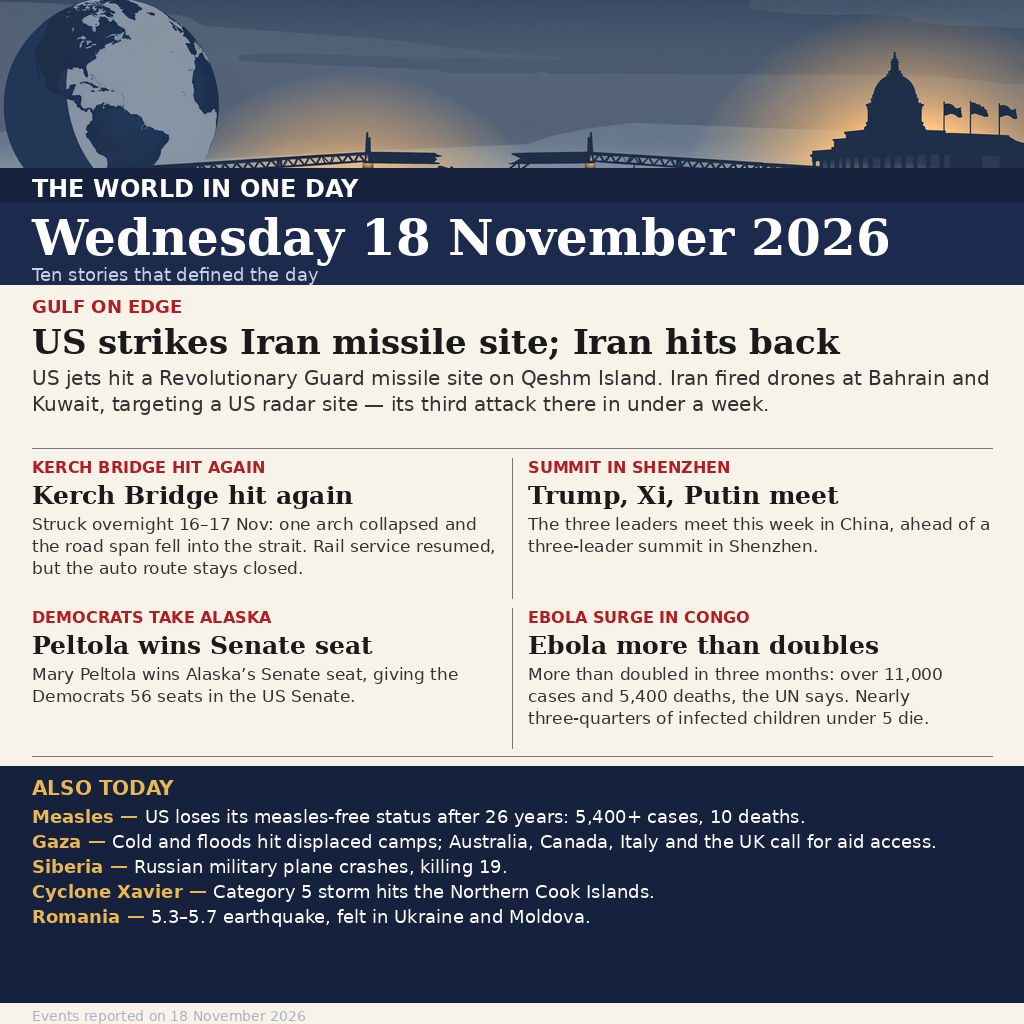
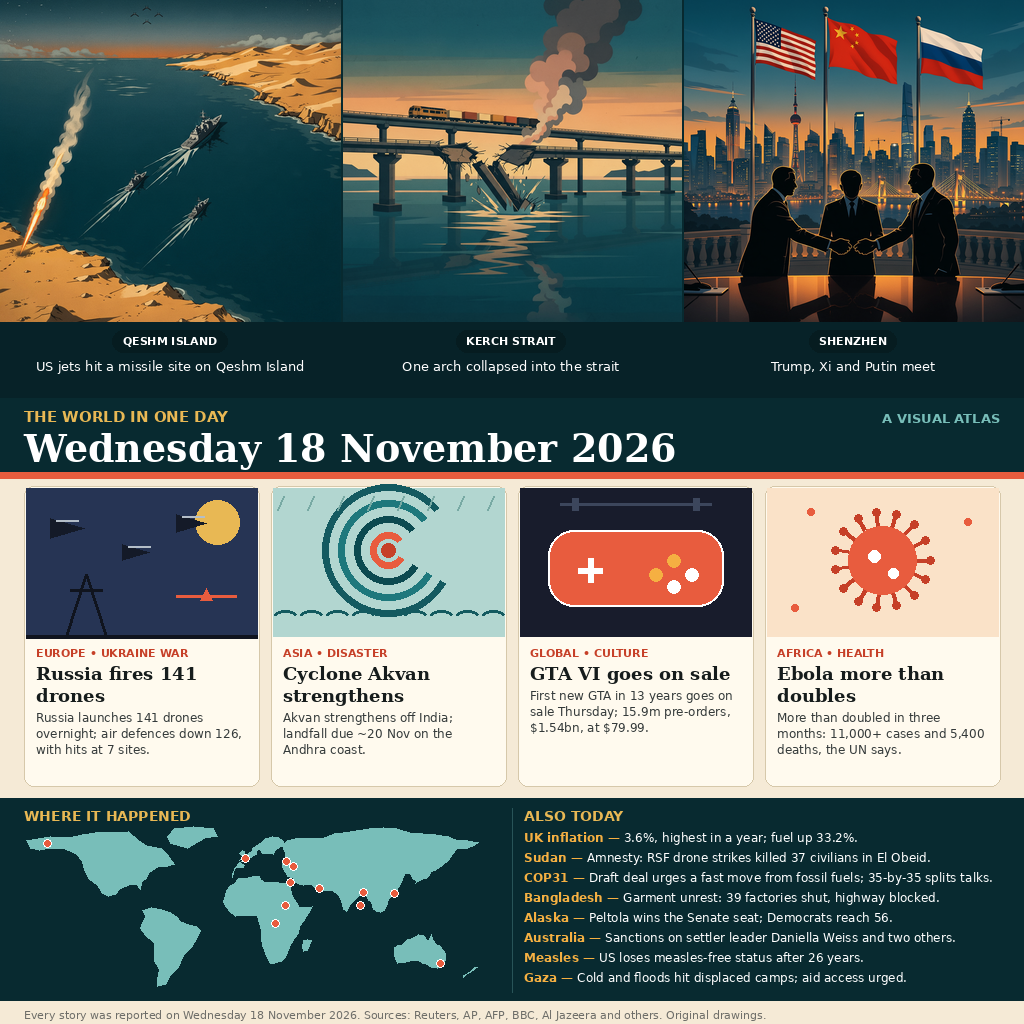
news-image v4: Canva hero panels, visual atlas layout

diff --git a/README.md b/README.md
@@ -8,17 +8,22 @@ Sum up 18 November's world news in one image. Entry for make.fun bounty [news-im
 
 ## The image
 
-A newspaper front page for **Wednesday 18 November 2026**, composed from a text-free illustration (globe, broken bridge, capitol) with all headlines typeset in crisp system fonts, so no text is garbled.
+A visual atlas of **Wednesday 18 November 2026** in deep teal and warm sand — a big illustrated hero panorama of the day's hotspots, four large visual story cards, a "Where it happened" world map, and eight one-line briefs. All headlines typeset in crisp system fonts over PIL-drawn flat illustrations, so no text is garbled.
 
-Stories (all reported on 18 November 2026):
+Hero panorama (all reported on 18 November 2026):
 
-1. **Gulf on edge** — US jets hit a Revolutionary Guard missile site on Qeshm Island; Iran fired drones at Bahrain and Kuwait, targeting a US radar site — its third attack there in under a week.
-2. **Kerch Bridge hit again** — struck overnight 16–17 Nov: one arch collapsed and the road span fell into the strait. Rail service resumed, but the auto route stays closed.
-3. **Summit in Shenzhen** — Trump, Xi Jinping and Putin meet this week in China, ahead of a three-leader summit in Shenzhen.
-4. **Democrats take Alaska** — Mary Peltola wins the Senate seat, giving the Democrats 56 seats in the US Senate.
-5. **Ebola surge in Congo** — the outbreak has more than doubled in three months: over 11,000 cases and 5,400 deaths, the UN says. Nearly three-quarters of infected children under 5 die.
+1. **Qeshm Island** — US jets hit a Revolutionary Guard missile site on Qeshm Island; Iran fired drones at Bahrain and Kuwait, targeting a US radar site.
+2. **Kerch Strait** — the Kerch Bridge struck overnight 16–17 Nov: one arch collapsed and the road span fell into the strait. Rail service resumed, but the auto route stays closed.
+3. **Shenzhen** — Trump, Xi Jinping and Putin gather in Shenzhen this week for a first three-way summit.
 
-Also today: US loses its measles-free status after 26 years (5,400+ cases, 10 deaths); cold and floods hit Gaza's displaced camps, and Australia, Canada, Italy and the UK call for aid access; a Russian military plane crashed in Siberia, 19 dead; Category 5 Cyclone Xavier hit the Northern Cook Islands; a 5.3–5.7 earthquake in Romania, felt in Ukraine and Moldova.
+Story cards:
+
+4. **Russia fires 141 drones** — overnight, air defences down 126, hits at 7 sites.
+5. **Cyclone Akvan strengthens** — severe storm in the Bay of Bengal, landfall due ~20 Nov on the Andhra coast.
+6. **GTA VI goes on sale** — first new GTA in 13 years, on sale Thursday; 15.9m pre-orders, $1.54bn, at $79.99.
+7. **Ebola more than doubles** — more than doubled in three months: 11,000+ cases and 5,400 deaths, the UN says.
+
+Also today: UK inflation hits 3.6%, highest in a year as fuel jumps 33.2%; Amnesty: RSF drone strikes in El Obeid killed 37 civilians; COP31 draft deal urges a fast move from fossil fuels while Türkiye's 35-by-35 goal splits talks; Bangladesh garment unrest — 39 factories shut, highway blocked; Mary Peltola wins Alaska's Senate seat, giving the Democrats 56 seats; Australia sanctions Daniella Weiss and two others over West Bank settlements; US loses its measles-free status after 26 years; cold and floods hit Gaza's displaced camps, and aid access is urged.
 
 ## Run it
 
